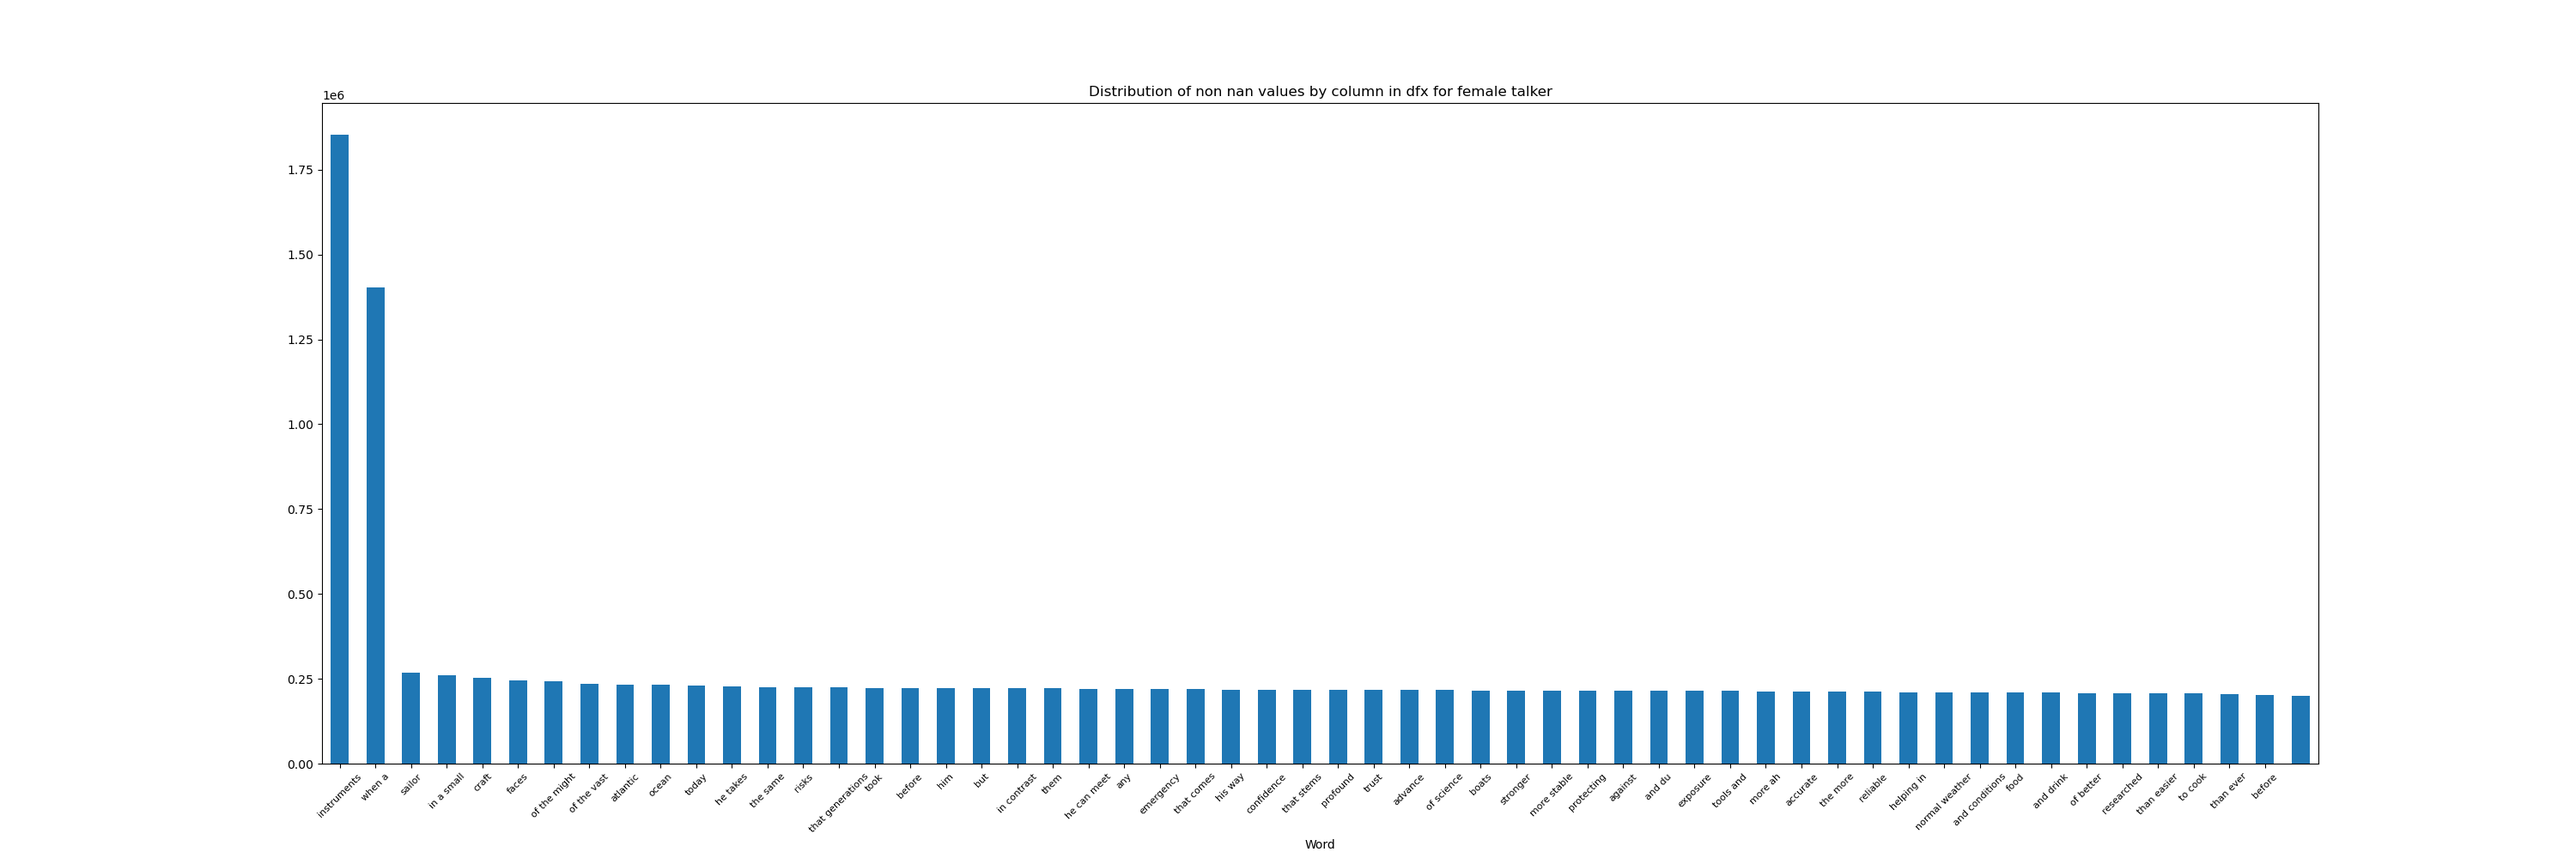
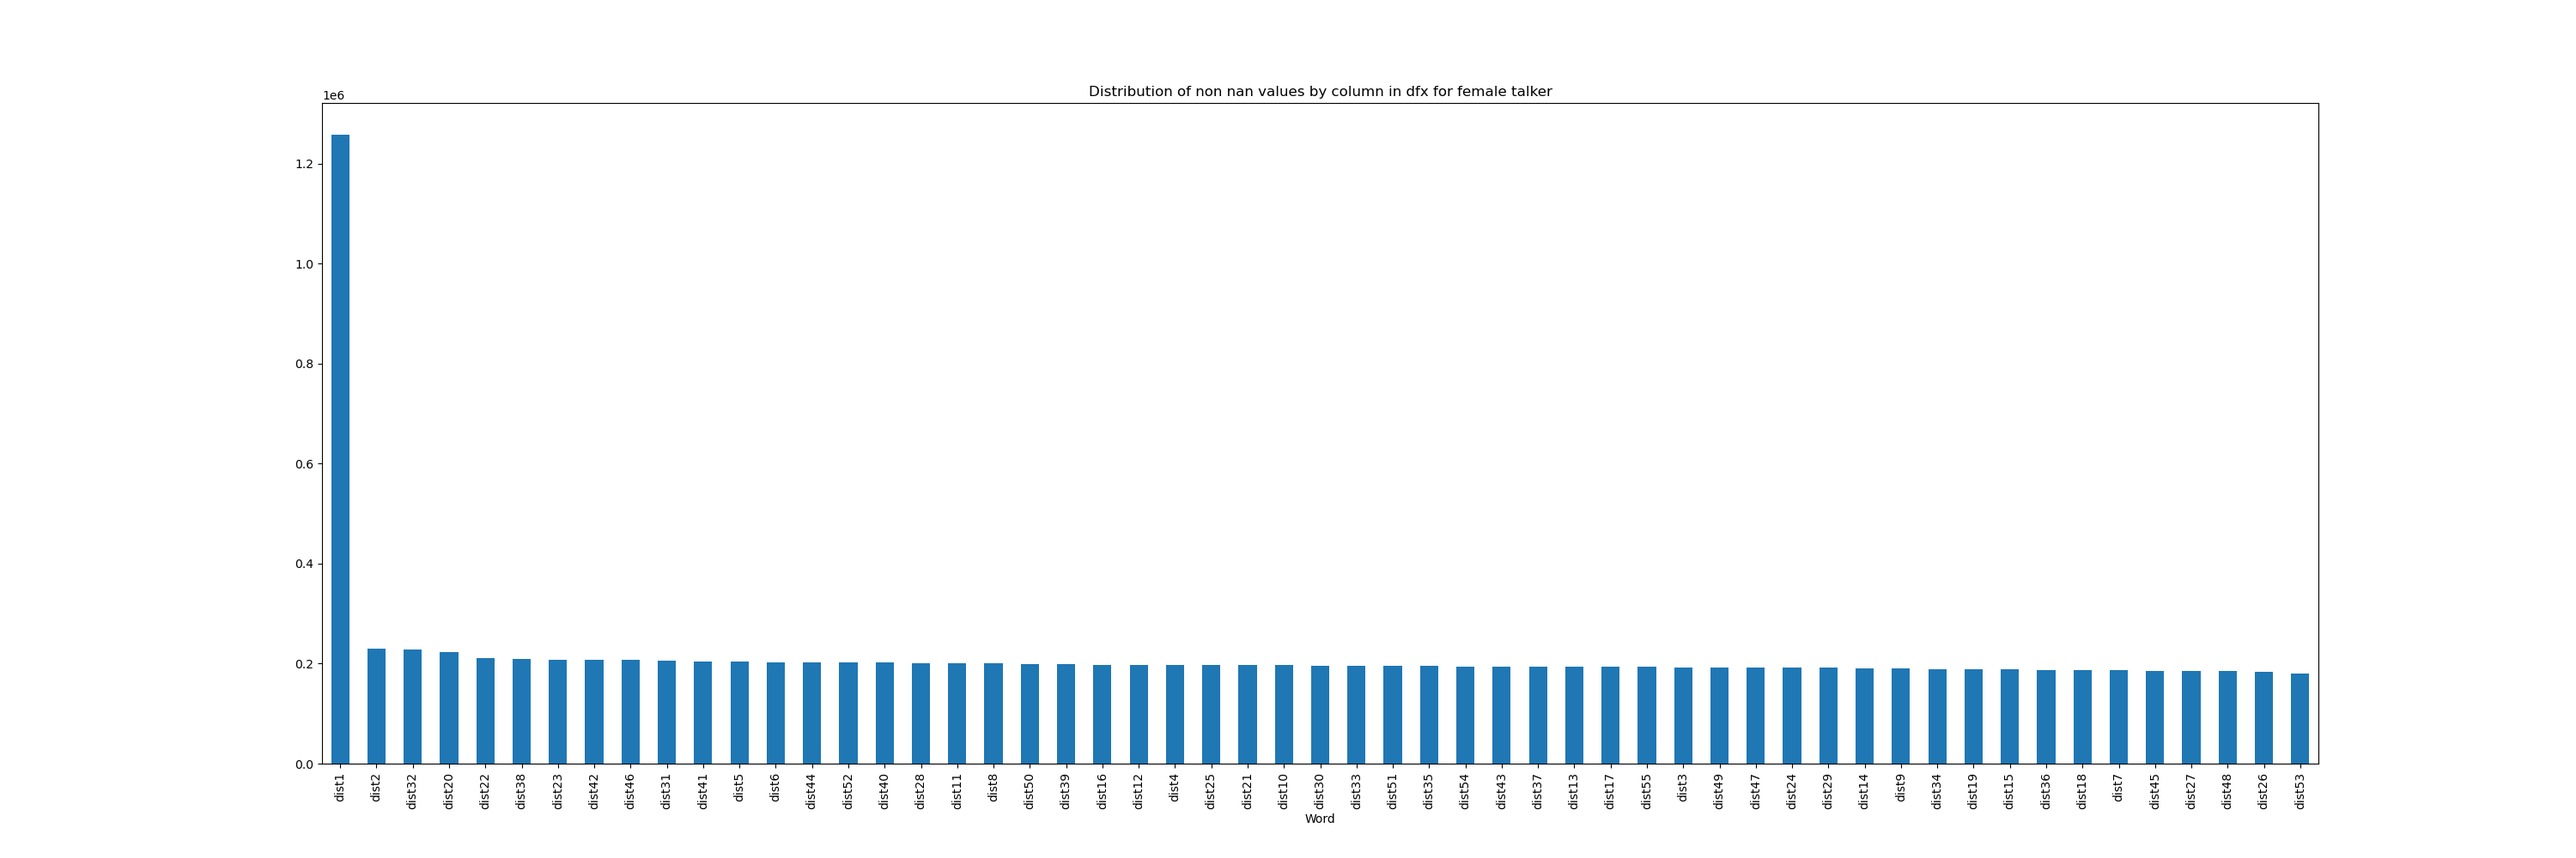
reconfiguration so the column list is reshuffled each time

Changed region(s): [[0.124, 0.341, 0.899, 0.961]]

diff --git a/models/reactiontimeforFAandtargmodel.py b/models/reactiontimeforFAandtargmodel.py
@@ -1,6 +1,8 @@
 import npyx
 import numpy as np
 import sklearn.metrics
+import random
+
 from sklearn.metrics import mean_squared_error
 from sklearn.model_selection import KFold
 from sklearn.model_selection import cross_val_score
@@ -693,33 +695,6 @@ def extract_releasedata_withdist(ferrets, talker=1):
     #subsample along the dist columns so the length corresponding to each word token column is the same length
     #get the counts of each column in the dataframe and then find the mean count
 
-
-    #
-    # for col in df_dist:
-    #     df_exclude_targ = df_dist.drop(['dist1'], axis=1)
-    #     df_dist_counts = df_exclude_targ.count(axis=0)
-    #
-    #     mean_count = df_dist_counts.mean()
-    #     # get median
-    #     median_count = df_dist_counts.median()
-    #     #get all the nan entries and all the non-nan entries
-    #     df_dist_nonan = df_dist[df_dist[col].notna()]
-    #     df_dist_nan = df_dist[df_dist[col].isna()]
-    #     #get the length of the non-nan entries
-    #     len_nonan = len(df_dist_nonan)
-    #     #get the length of the nan entries
-    #     len_nan = len(df_dist_nan)
-    #     #if the length of the nan entries is greater than 0.5 of the length of the non-nan entries
-    #     if len_nonan > int(median_count*1.1) and col !='dist1':
-    #         print('high frequency distractor')
-    #         print(col)
-    #         #subsample the nan entries to be the same length as the non-nan entries
-    #         df_dist_nonan = df_dist_nonan.sample(n=int(0.9*median_count), random_state=123)
-    #         #recombine the two dfs
-    #         df_dist = pd.concat([df_dist_nonan, df_dist_nan], axis=0)
-    #         #sort the index
-    #         df_dist = df_dist.sort_index()
-
     # Calculate the mean count of each word (excluding 'dist1') in the dataframe
     word_counts = df_dist.count(axis=0)
 
@@ -749,12 +724,14 @@ def extract_releasedata_withdist(ferrets, talker=1):
     subsampled_dfs = []
 
     # Iterate through each word (excluding 'dist1', 'dist2', and 'centreRelease')
-    import random
+    col_list = df_dist.columns.drop(['dist1', 'centreRelease']).to_list()
+
     for k in range(1, 30):
         count = 0
-        col_list = df_dist.columns.drop(['dist1', 'centreRelease'])
         #shuffle the columns
-        col_list = random.shuffle(col_list)
+
+        # random.shuffle(col_list)
+        col_list = np.flip(col_list)
 
 
         for col in col_list:
@@ -762,9 +739,16 @@ def extract_releasedata_withdist(ferrets, talker=1):
             word_df_na = df_dist[df_dist[col].isna()]
 
             # Stratified subsampling based on the original frequencies
-            n_samples = int(min_count)
-            word_df_notna_subsampled = word_df_notna.sample(n=n_samples, random_state=123, replace=True)
-            word_df_na_subsampled = word_df_na.sample(n=n_samples, random_state=123, replace=True)
+            if col == 'dist20' or col =='dist42'or col=='dist5':
+                print('higher freq word')
+                n_samples = int(min_count * 0.025)
+            elif col =='dist32' or col =='dist2':
+                print('super high freq word')
+                continue
+            else:
+                n_samples = int(min_count)
+            word_df_notna_subsampled = word_df_notna.sample(n=n_samples, random_state=123, replace=False)
+            word_df_na_subsampled = word_df_na.sample(n=n_samples, random_state=123, replace=False)
 
             # Append to list of DataFrames
             subsampled_dfs.append(pd.concat([word_df_notna_subsampled, word_df_na_subsampled], axis=0))
@@ -791,8 +775,13 @@ def extract_releasedata_withdist(ferrets, talker=1):
 
     fig, ax = plt.subplots(figsize=(30, 10))
     #plot them in order in a bar plot from highest to lowest
-    df_dist_counts = df_dist.count(axis=0)
+    #drop centrelrease
+    df_dist_counts = df_dist.drop(['centreRelease'], axis=1)
+    df_dist_counts = df_dist_counts.count(axis=0)
+    #sort the values, get the index
     df_dist_counts = df_dist_counts.sort_values(ascending=False)
+    #get the index
+
     df_dist_counts.plot.bar(ax=ax)
     ax.set_xlabel('Word')
 
@@ -802,11 +791,11 @@ def extract_releasedata_withdist(ferrets, talker=1):
     ax.set_xticks(np.arange(0, 55, 1))
     # ax.set_yticks(np.arange(0, 5000, 200))
     if talker == 1:
-        ax.set_xticklabels(female_word_labels, rotation=45, fontsize=8)
+        # ax.set_xticklabels(female_word_labels, rotation=45, fontsize=8)
         plt.title('Distribution of non nan values by column in dfx for female talker')
 
     else:
-        ax.set_xticklabels(male_word_labels, rotation=45, fontsize=8)
+        # ax.set_xticklabels(male_word_labels, rotation=45, fontsize=8)
         plt.title('Distribution of non nan values by column in dfx for male talker')
 
     plt.savefig('D:\mixedeffectmodelsbehavioural\models/figs/absolutereleasemodel/distribution_non_nan_values_by_column_dfx_talker' + str(talker) + '.png')
@@ -961,9 +950,9 @@ def main():
     ferrets = ['F1702_Zola', 'F1815_Cruella', 'F1803_Tina', 'F2002_Macaroni', 'F2105_Clove']  # , 'F2105_Clove']
 
     # ferrets = ['F1815_Cruella', 'F1803_Tina', 'F2002_Macaroni', 'F2105_Clove']
-    predict_rxn_time_with_dist_model(ferrets, optimization=False, ferret_as_feature=True, talker=1)
+    predict_rxn_time_with_dist_model(ferrets, optimization=True, ferret_as_feature=True, talker=1)
     #
-    # for ferret in ferrets:
+    # for ferret in ferrets:col_list
     #     predict_rxn_time_with_dist_model([ferret], optimization=False, ferret_as_feature=False, talker = 1)
     #     predict_rxn_time_with_dist_model([ferret], optimization=False, ferret_as_feature=False, talker = 2)
 
